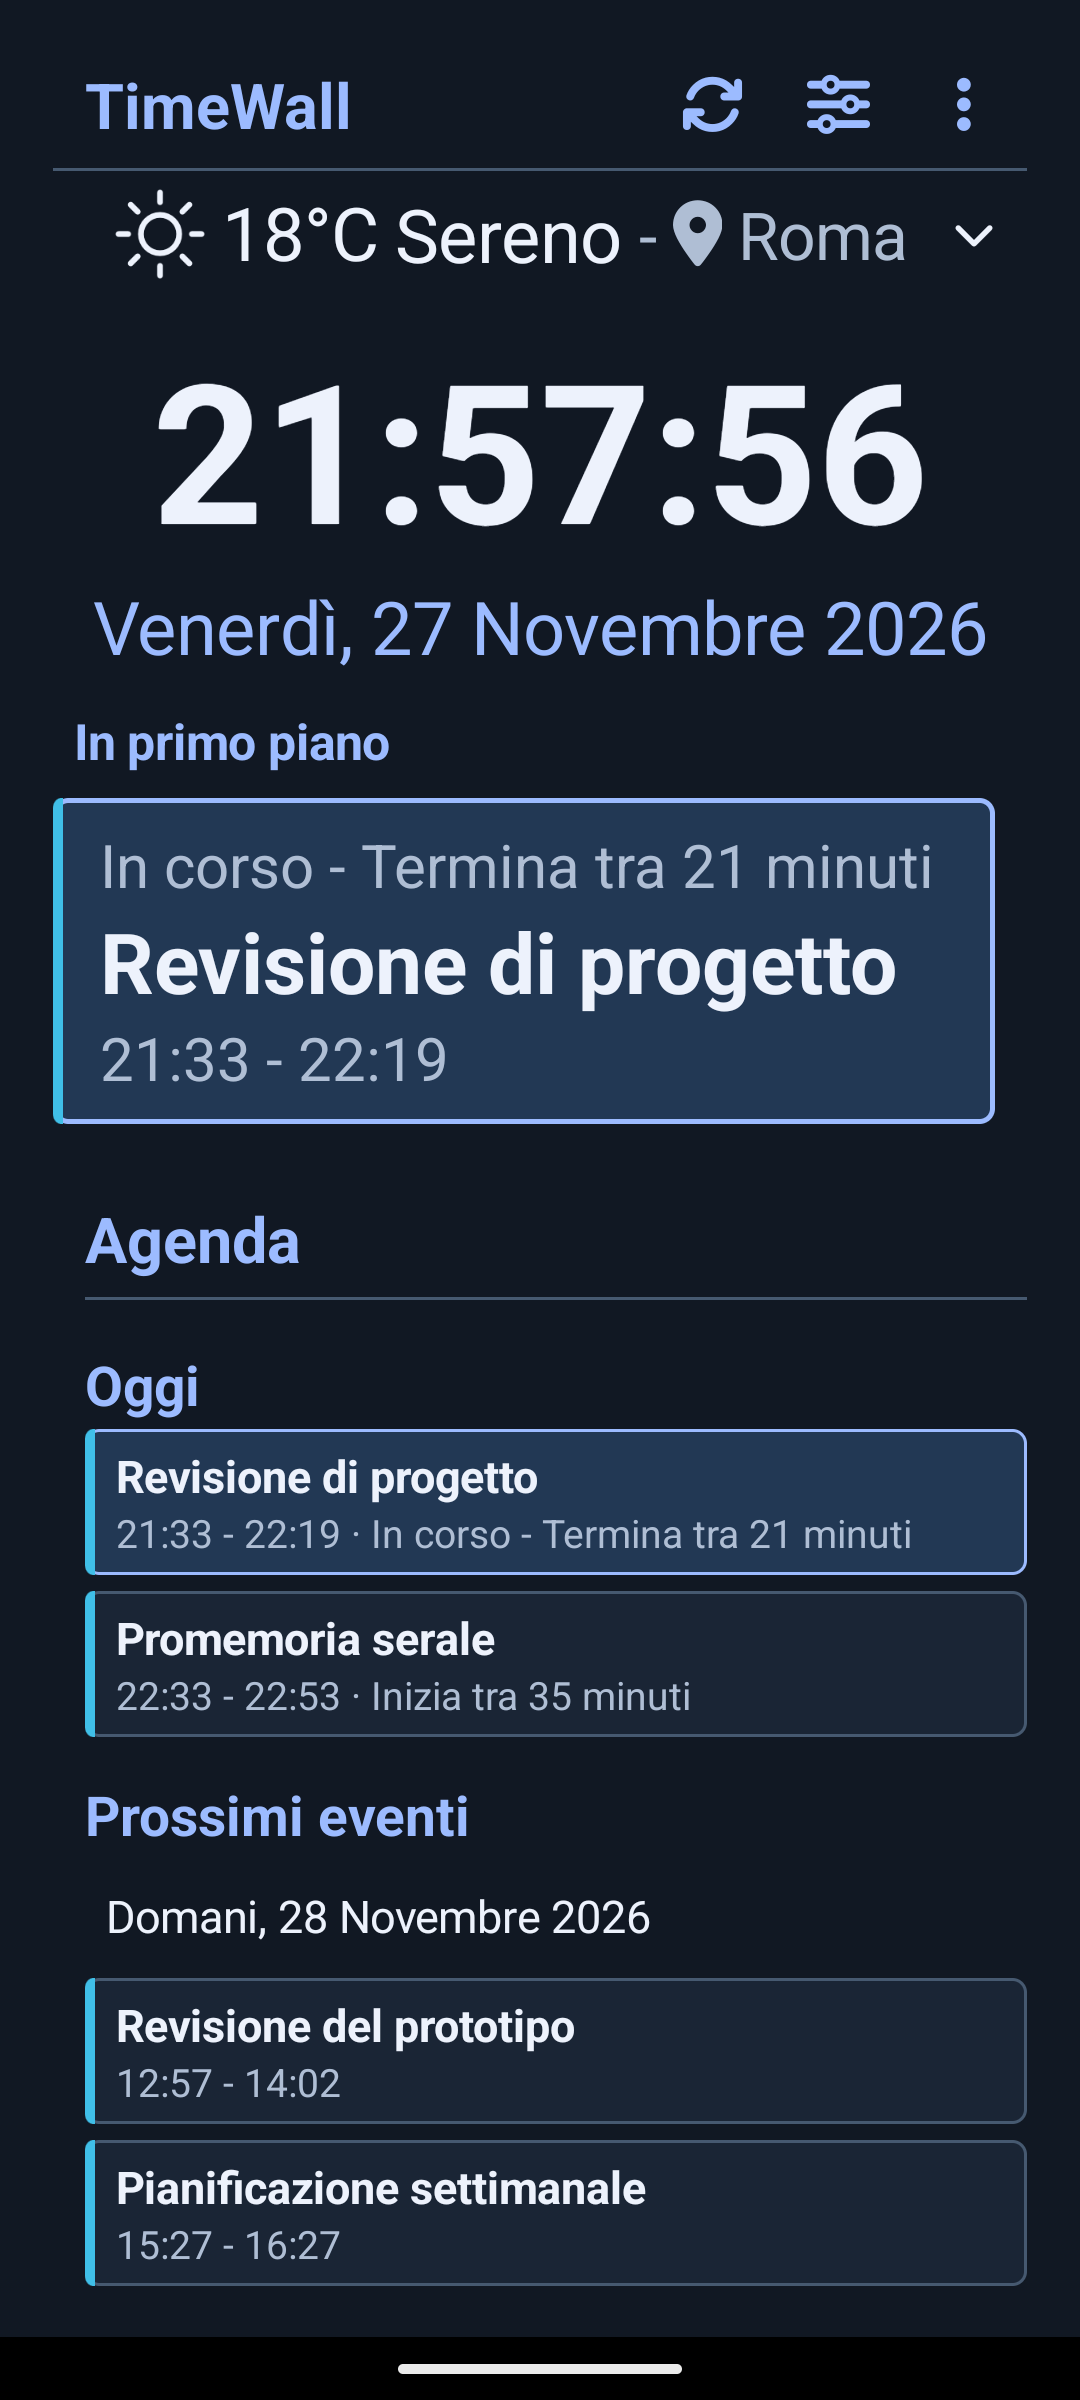
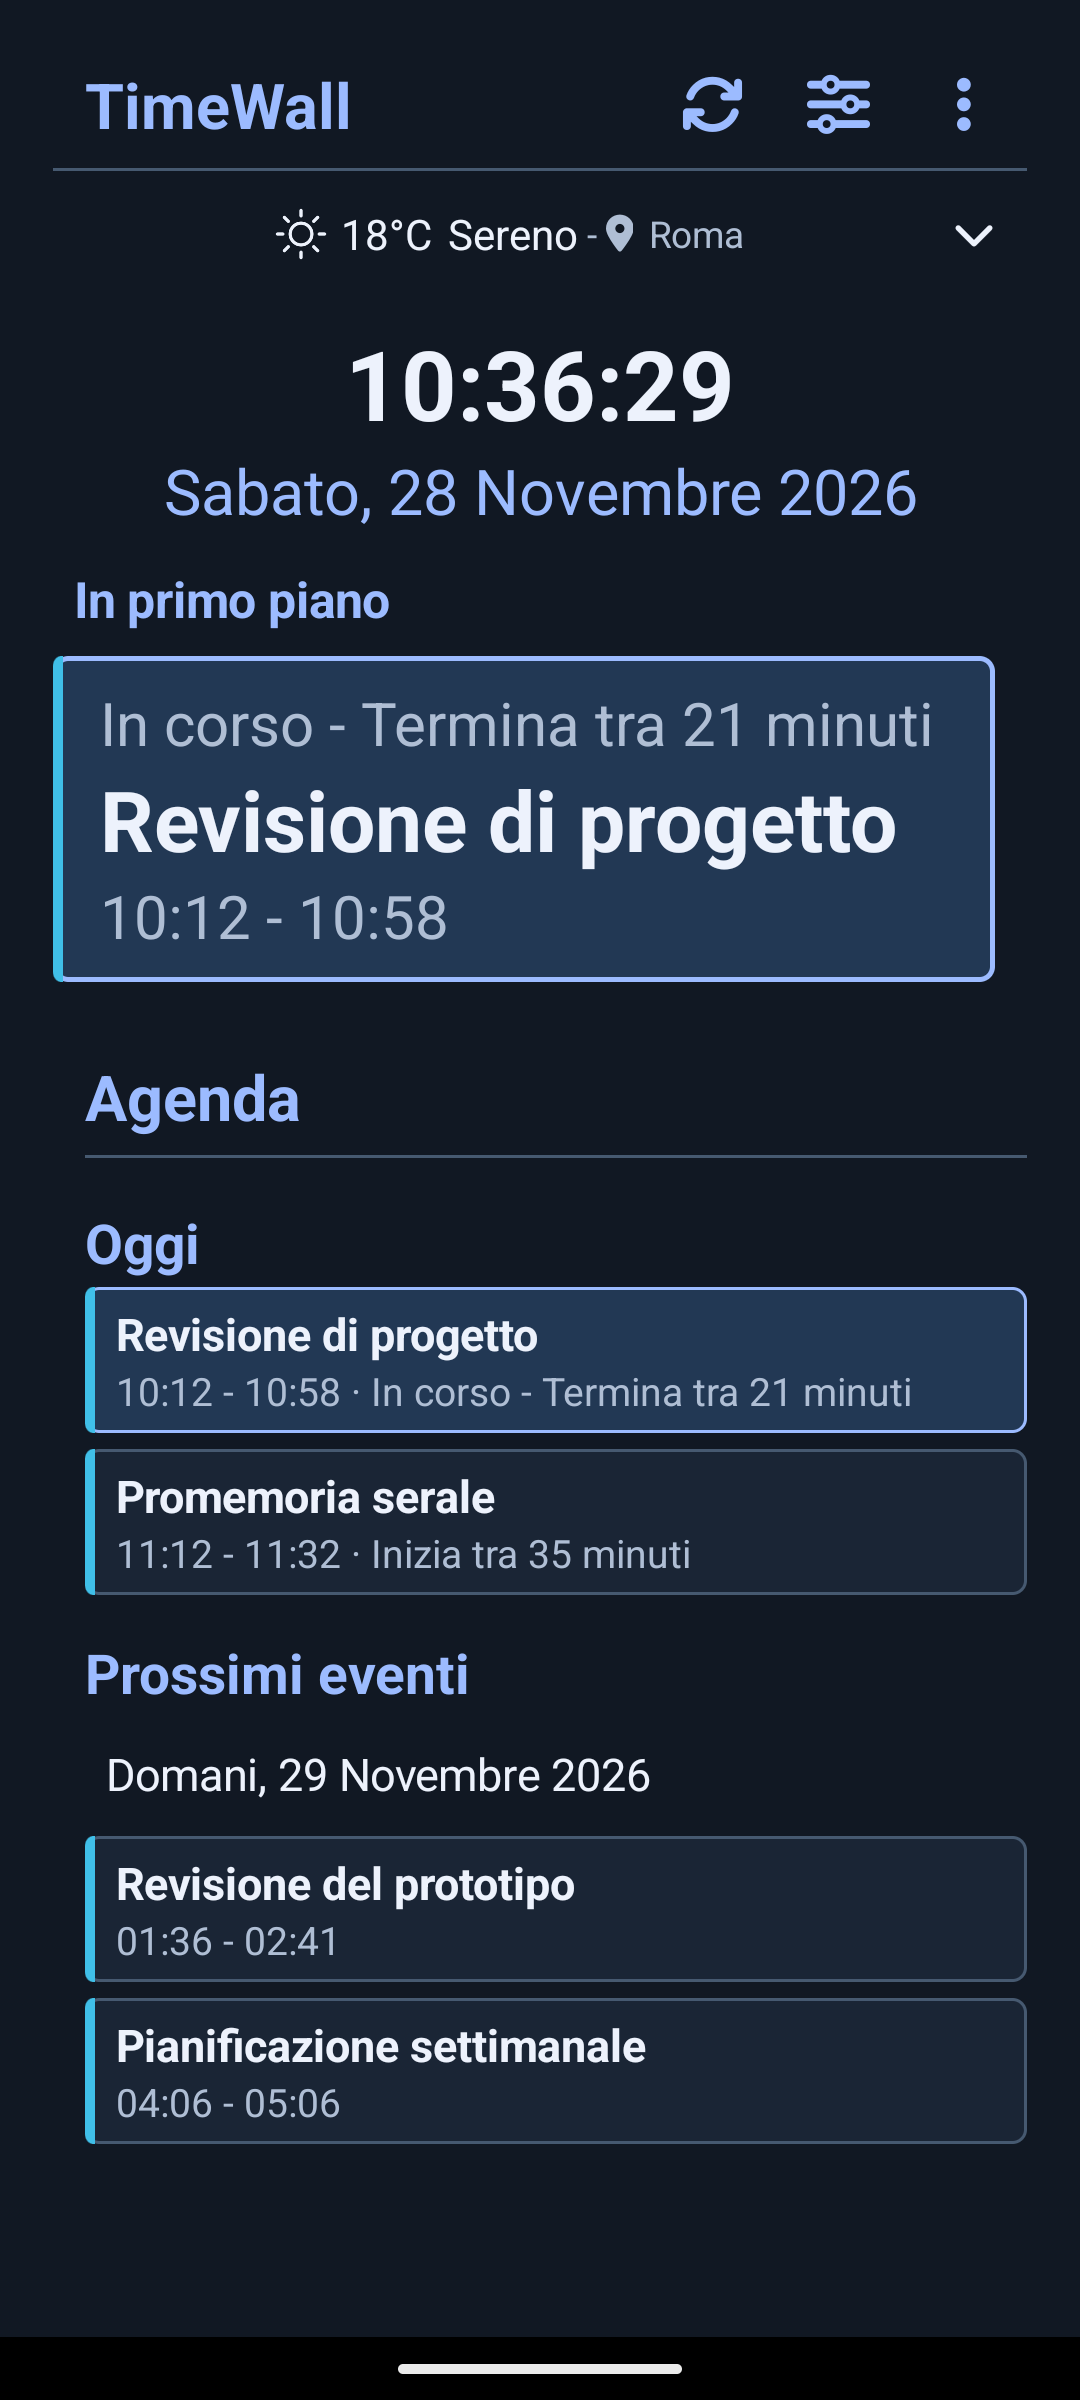
Refresh portrait screenshots and document settings previews

diff --git a/build.py b/build.py
@@ -135,6 +135,11 @@ def render(OUT):
     T('Dashboard in verticale e in orizzontale, con meteo espandibile in verticale.', 'Portrait and landscape dashboard, with expandable weather in portrait.'),
     T('Aggiunta del primo calendario direttamente dalla dashboard.', 'Add your first calendar directly from the dashboard.'),
    ]
+  if release['build'] >= 111:
+   download_features.append(T(
+    'Anteprima dei font e delle palette dei temi nelle impostazioni.',
+    'Font and theme palette previews in Settings.',
+   ))
   download_features.append(T('Informativa privacy e crediti consultabili nell’app.', 'In-app privacy notice and credits.'))
   feature_items = ''.join(f'<li>{item}</li>' for item in download_features)
   download=f'''<div class="page-intro"><p class="eyebrow">{T("TIMEWALL PER ANDROID","TIMEWALL FOR ANDROID")}</p><h1>{T('La tua giornata<br>ti aspetta.','Your day<br>is waiting.')}</h1><p class="lead">{download_summary}</p></div><div class="download-grid"><article class="download-card primary-card"><span class="tag">{T('DOWNLOAD DIRETTO','DIRECT DOWNLOAD')}</span><h2>TimeWall<span class="brand-dot">.</span> <span class="accent">{release['version']}</span></h2><p>Android 4.4+ · APK · {size} MB</p><a class="button" download href="../downloads/TimeWall-Dashboard.apk">{T('Scarica l’APK','Download APK')}</a><p class="fine">{T('Build','Build')} {release['build']} · {T('APK del','APK dated')} {apk_date}</p><a class="text-link" href="quick-start.html">{T('Come installare e configurare','Installation and setup guide')}</a></article><article class="download-card"><span class="tag muted">{T('PROSSIMAMENTE','COMING SOON')}</span><h2>Google Play</h2><p>{T('TimeWall è in fase di test su Google Play. Qui troverai il collegamento alla scheda pubblica quando sarà disponibile.','TimeWall is being tested on Google Play. The public store listing will be linked here when it becomes available.')}</p><button class="button secondary" disabled>{T('Prossimamente su Google Play','Coming soon to Google Play')}</button></article></div><section class="section changelog"><p class="eyebrow">CHANGELOG</p><h2>{T('Versioni e aggiornamenti','Versions and updates')}</h2><article class="release"><div><h3>{release["version"]}</h3><span class="fine">Build {release["build"]}</span></div><div><h3>TimeWall<span class="brand-dot">.</span></h3><details><summary>{T('Funzioni presenti in questa versione','Features available in this version')}</summary><ul>{feature_items}</ul></details></div></article></section>'''

diff --git a/README.md b/README.md
@@ -35,7 +35,7 @@ python3 -m http.server 8080 --directory dist
 - La pagina Download mostra le funzioni della versione scaricabile in base al numero di build. La home e la guida possono presentare funzioni in test, con un’indicazione della loro disponibilità.
 - Aggiornare il collegamento a Google Play quando la scheda sarà pubblica.
 - Il codice di TimeWall è distribuito con licenza MIT. Le risorse di terze parti mantengono le rispettive licenze.
-- La galleria e il Quick Start usano catture della build 110 in italiano e inglese, da emulatore Android con dati dimostrativi.
+- La galleria e il Quick Start usano catture in italiano e inglese da emulatore Android con dati dimostrativi. Le catture orizzontali provengono dalla build 110. Quelle verticali includono i ritocchi alla dashboard successivi alla build 111.
 - La pagina Privacy riprende l’informativa Android e descrive anche l’esportazione manuale delle impostazioni e il comportamento del sito statico.
 
 TimeWall supporta feed iCal pubblici via HTTPS, indipendentemente dal provider.
